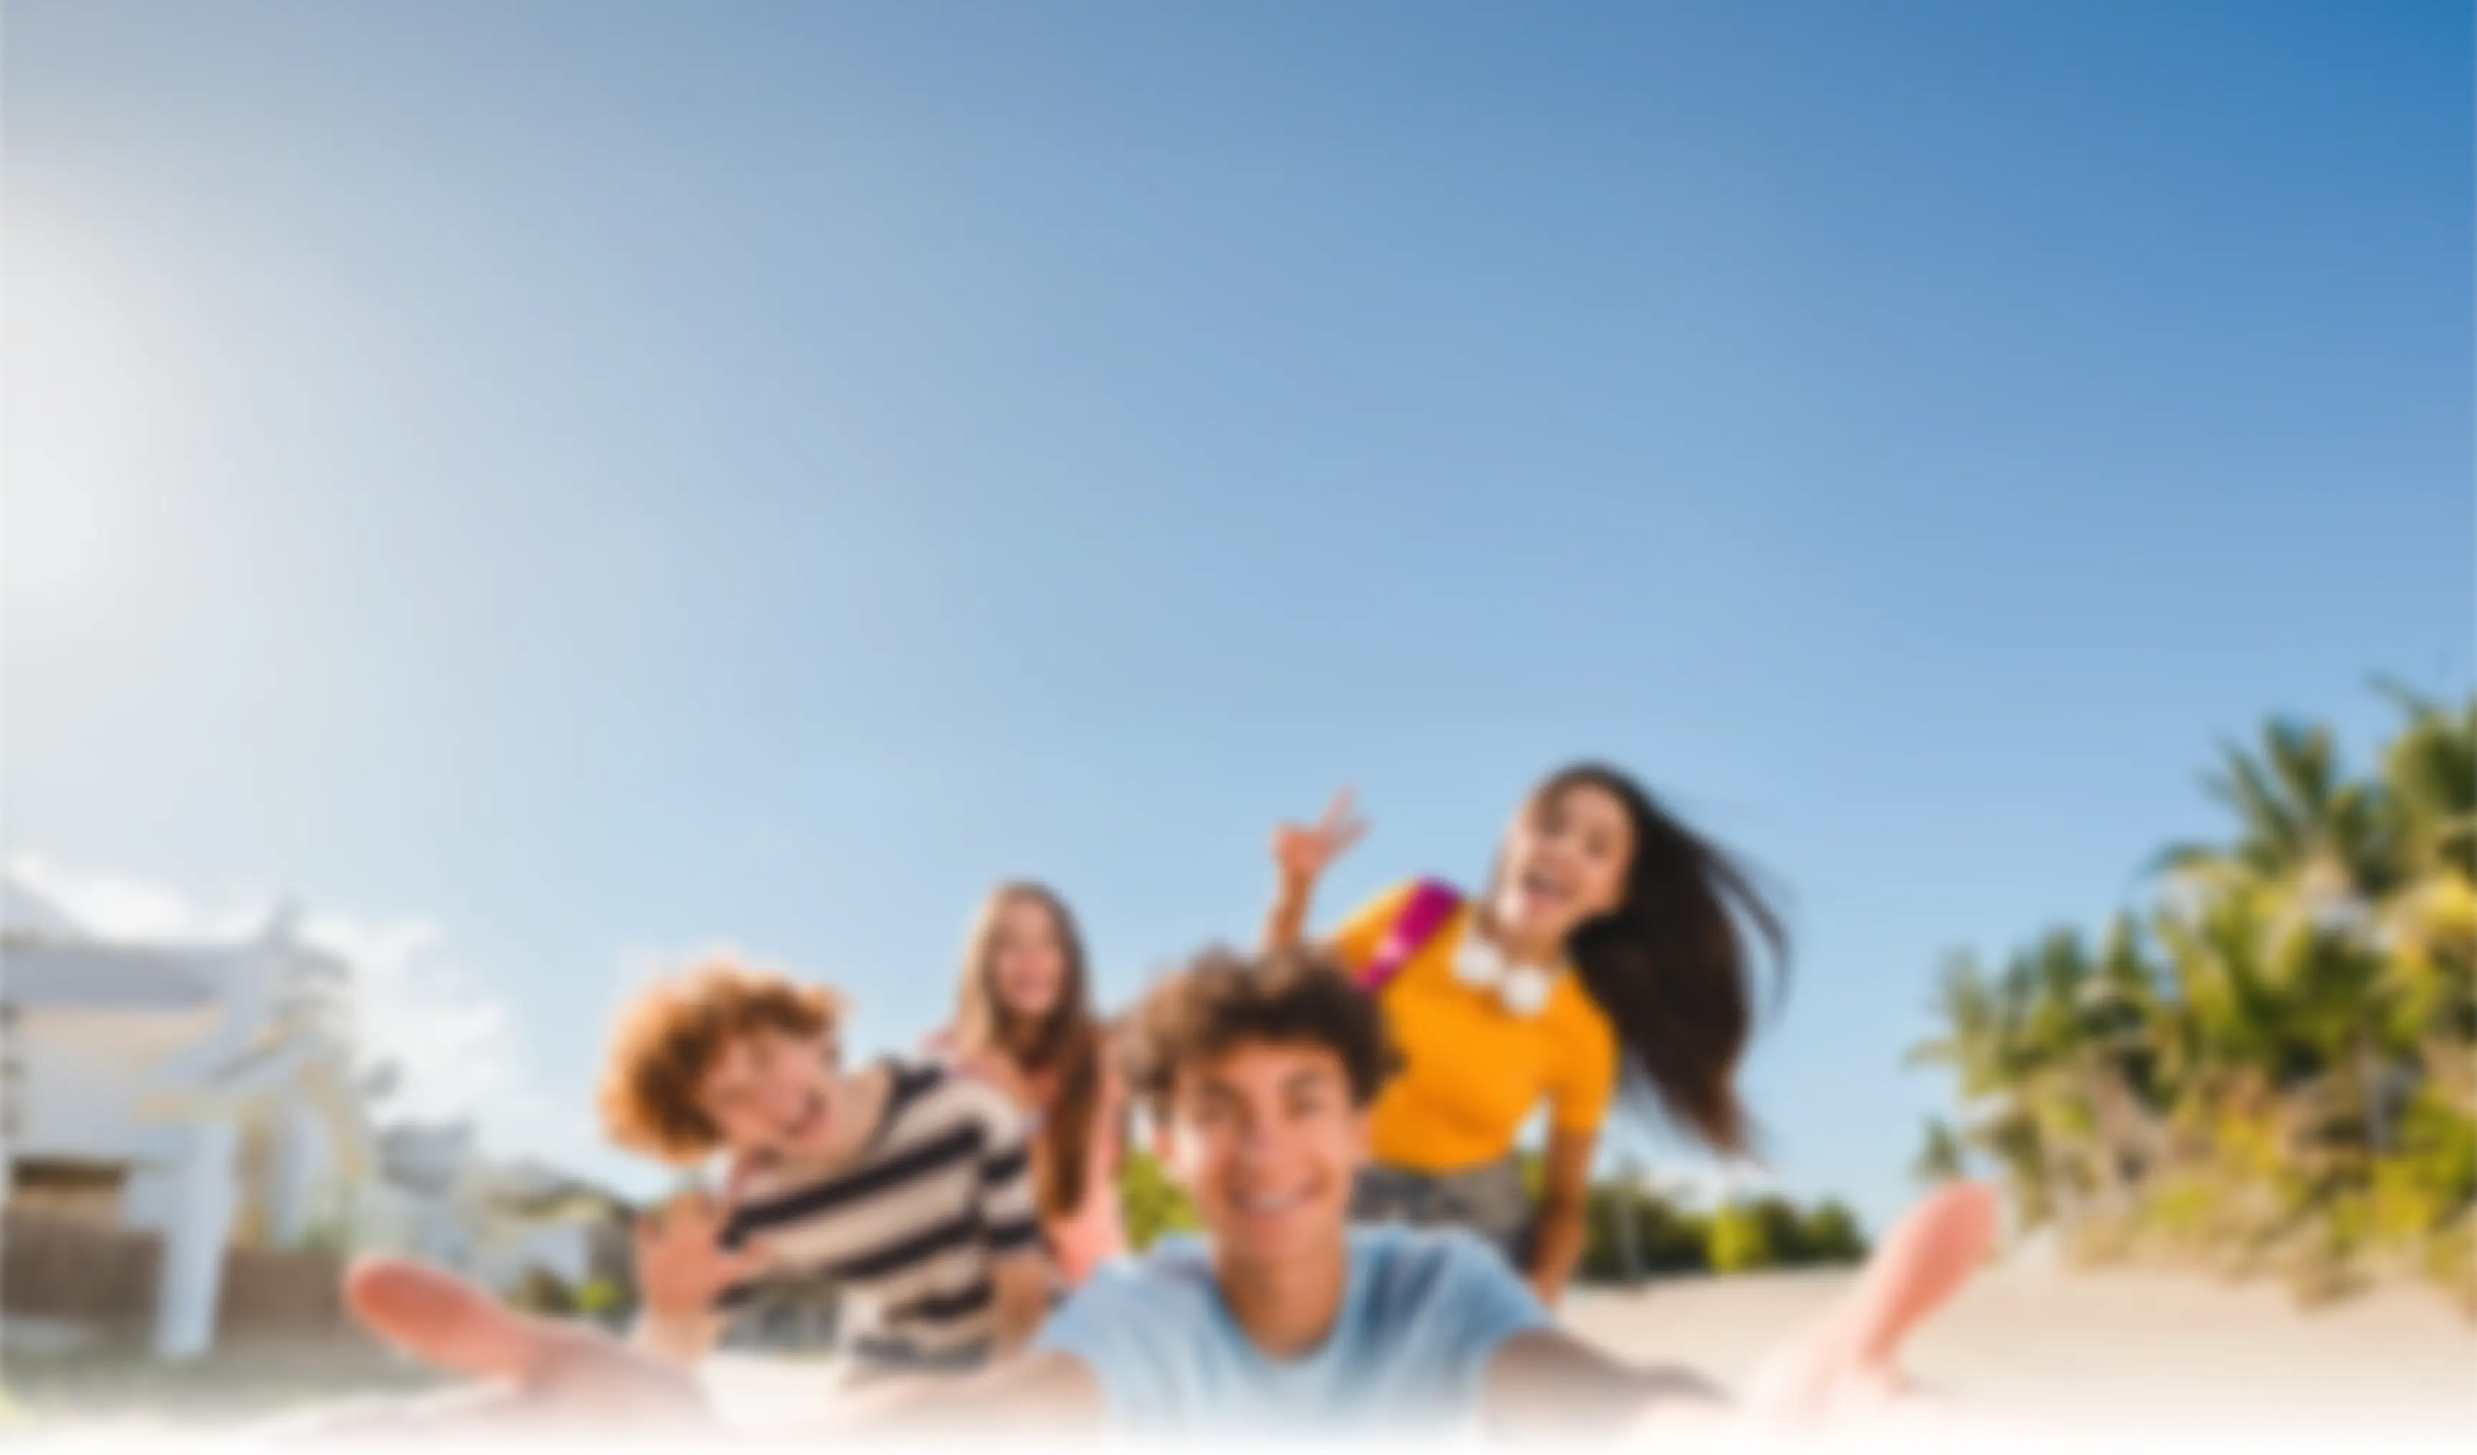
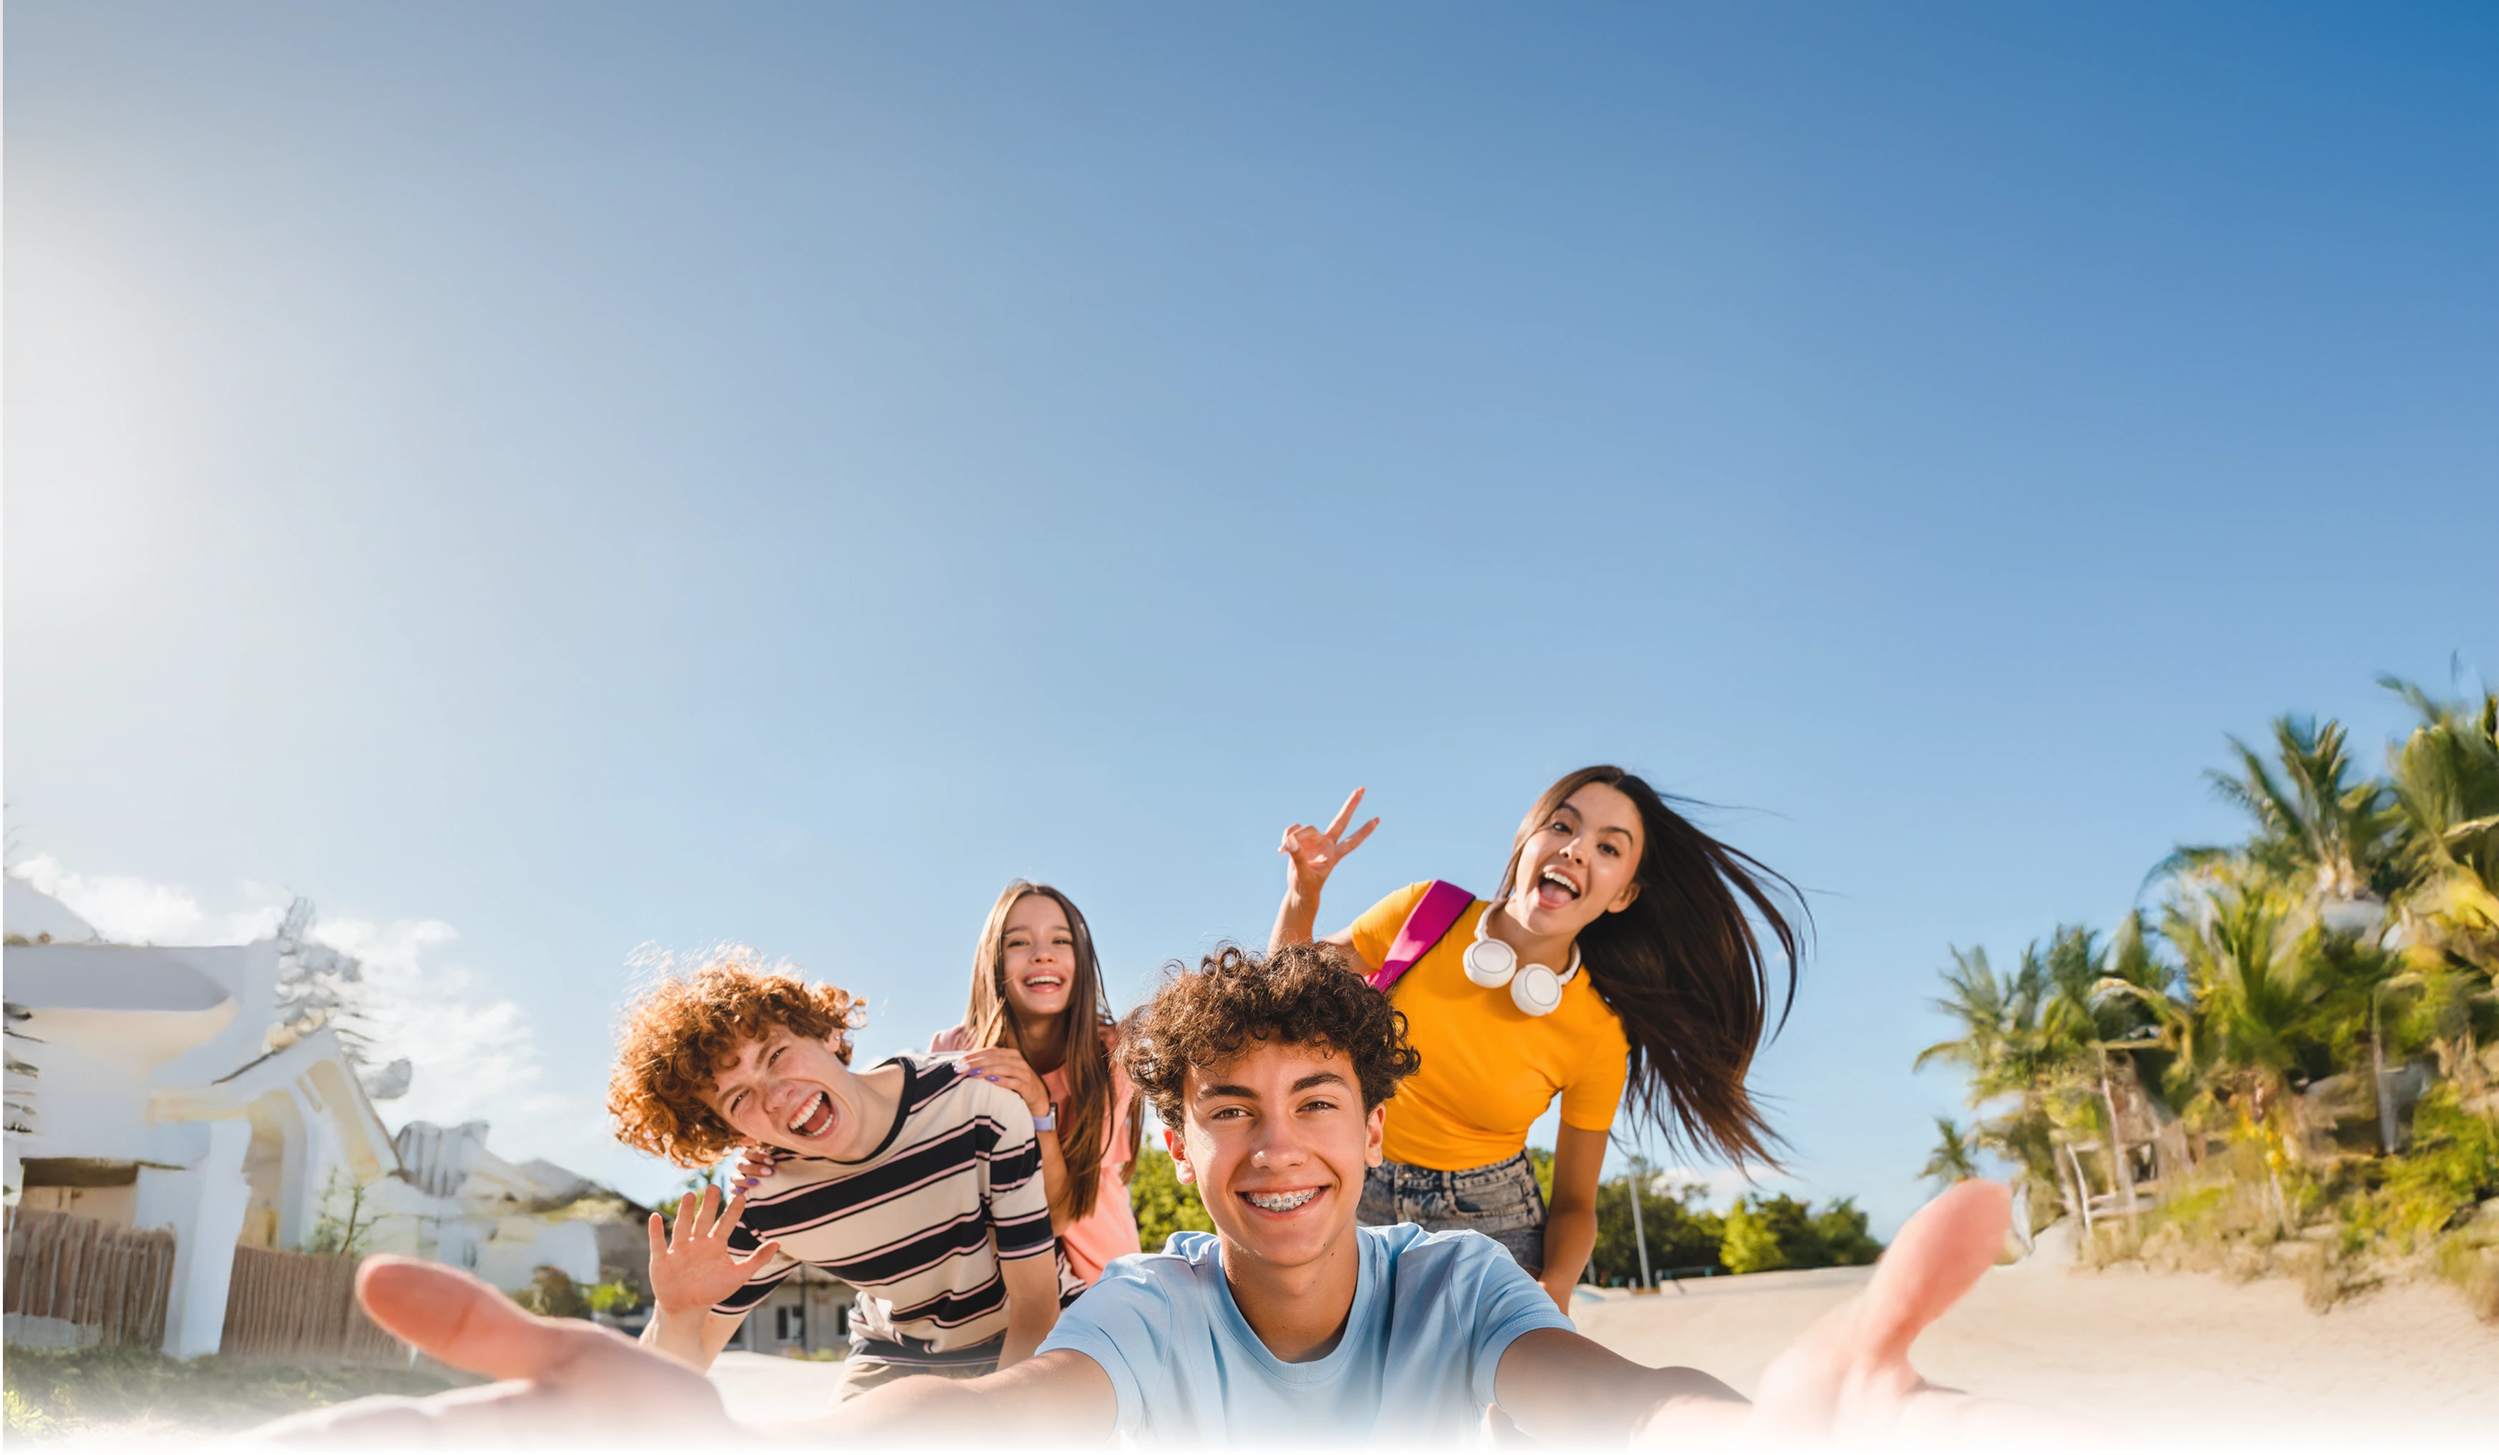
.

diff --git a/app/mymonty-under-18/Banner.js b/app/mymonty-under-18/Banner.js
@@ -8,7 +8,8 @@ function Banner() {
 
     const [opacity, setOpacity] = useState(0);
     const [scale, setScale] = useState(1);
-    const [bannerOpacity, setBannerOpacity] = useState(1);
+    // const [bannerOpacity, setBannerOpacity] = useState(1);
+    const [bannerBlur, setBannerBlur] = useState(0);
 
     useEffect(() => {
         const handleScroll = () => {
@@ -16,10 +17,12 @@ function Banner() {
             const windowHeight = window.innerHeight;
             const maxOpacityScroll = windowHeight * 0.2;
             const newOpacity = Math.min(1, scrollPosition / maxOpacityScroll);
-            const newBannerOpacity = Math.max(0, 1 - scrollPosition / (windowHeight * 0.4)); // Slower fade for banner
+            // const newBannerOpacity = Math.max(0, 1 - scrollPosition / (windowHeight * 0.4)); // Slower fade for banner
+            const newBannerBlur = Math.min(20, (scrollPosition / (windowHeight * 0.8)) * 10);
             const newScale = 1 + Math.min(0.1, scrollPosition / (windowHeight * 0.8) * 0.2);  // Scales up to 1.1
             setOpacity(newOpacity);
-            setBannerOpacity(newBannerOpacity);
+            setBannerBlur(newBannerBlur);
+            // setBannerOpacity(newBannerOpacity);
             setScale(newScale);
         };
 
@@ -29,7 +32,7 @@ function Banner() {
     
     return (
         <section className='flex flex-col relative lg:min-h-[100dvh] pt-[var(--header-height)] overflow-hidden max-lg:pb-32'>
-            <img src='/youth-banner.webp' alt='Youth Card' className='absolute top-0 left-0 object-cover object-bottom w-full h-full -z-10' style={{ opacity: bannerOpacity, transition: 'opacity 0.1s linear' }}/>
+            <img src='/youth-banner.webp' alt='Youth Card' className='absolute top-0 left-0 object-cover object-bottom w-full h-full -z-10' style={{ filter: `blur(${bannerBlur}px)`, transition: 'filter 0.1s linear' }} />
             <div className='container h-full text-center mt-20 2xl:mt-40'>
                 <h1 className='font-black text-[42px] sm:text-5xl md:text-6xl lg:text-[5.4rem] xl:text-[5.4rem] mt-6 leading-none uppercase'>Be life ready</h1>
                 <p className='text-xl mt-8'>Your money. Your rules. Your Card.</p>
